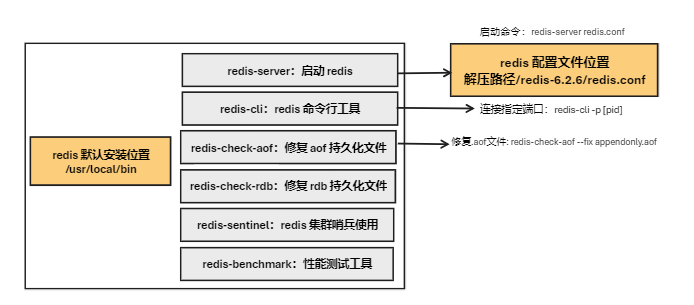
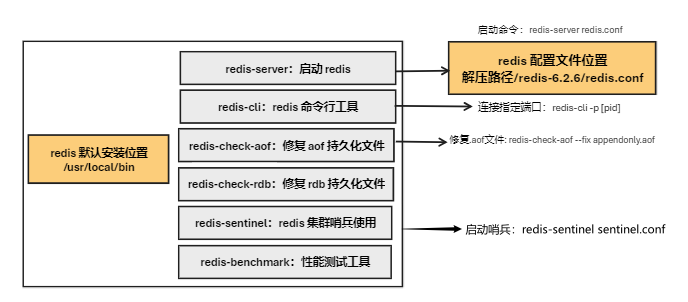
文档更新：扩展Redis哨兵模式和分片集群文档
扩展了Redis文档，详细介绍了哨兵模式和分片集群的配置、选主流程、哨兵集群部署及其运行机制。包括如何设置哨兵监控、主从复制，以及在多种场景下的实例分配与数据操作方法。

Changed region(s): [[0.0305, 0.0894, 0.9767, 0.9536]]

diff --git a/README.md b/README.md
@@ -589,7 +589,7 @@ Redis 根据数据库现有数据，创建一个新的 AOF 文件，读取数据
 > - 但是在服务器宕机到恢复的这段时间，新来的请求如何处理？也就是如何保证服务器少服务少中断，提高服务的可用性；
 > - redis 提高可用性的方式，增加副本（集群方案）；
 
-![image.png](assets/image73.png?t=1726319203051)
+![image.png](assets/image73.png?t=1726468291100)
 
 ## 1. 主从复制
 
@@ -723,6 +723,247 @@ dbfilename dump6379.rdb
 > 缓冲空间大小 = 主库写入速度 * 操作大小 - 主从库网络传输速度 * 操作大小
 >
 > repl-backlog-size = 缓冲空间大小 * 2
+
+## 2. 哨兵模式
+
+> 主从复制模式，解决了从节点宕机后读数据的问题；但是并没有解决主节点宕机无法写数据的问题；（主节点读写，从节点只读）
+
+哨兵模式：当主库宕机，在从库中选择一个，切换为主库。
+
+问题：
+
+> 1. 主库是否真正宕机?
+> 2. 哪一个从库可以作为主库使用?
+> 3. 如何实现将新的主库的信息通知给从库和客户端?
+
+### （1）基本流程
+
+> 哨兵主要任务：
+>
+> - 监控：周期性 ping 主/从节点
+>   - 从库：当前 sentinel 节点指定时间内未收到从库应答，则认为主客观都下线；
+>   - 主库：当前 sentinel 节点指定时间内未收到主库应答，则认为主库主观下线，当大部分 sentinel 节点都主观认为主库下线，则主库变为客观下线；此时需要重新选择主库；
+> - 选择主库
+>   - 筛选：筛掉一些宕机和网络差的节点；
+>   - 打分：三轮打分选择分数最高，优先级、与主库同步程度、id值；
+> - 通知
+
+### （2）哨兵模式配置
+
+1. 新建配置文件：`vim sentinel.conf`，编辑并保存如下内容：
+
+```ini
+# 配置哨兵端口
+port 26379
+# 配置监控的猪节点地址 1 表示只要有一个哨兵主观认为主节点下线，则主节点就客观下线
+# sentinel monitor <自定义的reids主节点名称> <IP> <port> <数量>
+sentinel monitor mymaster 127.0.0.1 6379 1
+# 配置主观认为主节点下线的等待时间，单位 毫秒
+sentinel down-after-milliseconds mymaster 30000
+```
+
+2. 启动三个 redis 实例，配置成一主二从模式；
+
+   ![image.png](assets/image77.png)
+3. 启动哨兵：`redis-sentinel sentinel.conf`
+
+![image.png](assets/image78.png)
+
+4. 将主节点宕机，观察哨兵监控信息变化；
+
+> 将一个从库 6380，切换成主库，将 6381，切换成 6379 的从库；
+
+![image.png](assets/image79.png)
+
+5. 将主节点再次上线，观察哨兵监控信息变化；
+
+> 原来主库 6379 再次启动，6379 切换成 6380 的从库；
+
+![image.png](assets/image80.png)
+
+#### ❤ 主节点切换的实现方式：自动重写 redis 实例配置文件
+
+![image.png](assets/image81.png)
+
+### （3）选主流程 ❤
+
+> 筛选 + 打分机制，来实现新主库的选定
+
+1. 筛选：筛选掉一些宕机的和网络不好的节点，剩下的节点作为备选进行打分；
+2. 打分：三轮打分
+
+- 第一轮：优先级
+  - 通过 replica-priority 配置项，给不同的从库设置优先级，可以将内存大，网络好，配置高的从库优先级设置更高；
+- 第二轮：和原主库同步程度；
+  - 选择和原主库 repl_backlog_buffer （环形缓冲区）中的位置最接近的，做为分数最高；
+- 第三轮：ID 号小的从库得分高，每一个 redis 实例都有一个id；
+
+![image.png](assets/image82.png)
+
+### （4）哨兵集群
+
+> - 采用多个哨兵，组成一个集群，以少数服从多数的原则，来判断主库是否已客观下线：（防止单个哨兵产生较大误判概率）；
+> - 多数一般指 n/2 + 1；（向下取整）
+> - 如果集群中，有哨兵实例掉线，其他的哨兵还可以继续协作，来完成主从库监控和切换的工作；
+
+#### a. 部署
+
+模式：redis 实例一主二从，sentinel 实例三个节点集群；
+
+1. 创建了一个目录 mysentinel；
+2. 分别创建三个哨兵配置文件
+
+> - sentinel26379.conf
+> - sentinel26380.conf
+> - sentinel26381.conf
+
+配置如下：
+
+> `sentinel down-after-milliseconds mymaster 30000`，每个哨兵等待时间要配置一致，否则达不成一致选库切换；:star:
+
+```ini
+port 26381
+sentinel monitor mymaster 127.0.0.1 6379 2
+```
+
+```ini
+port 26380
+sentinel monitor mymaster 127.0.0.1 6379 2
+```
+
+```ini
+port 26379
+sentinel monitor mymaster 127.0.0.1 6379 2
+```
+
+3. 再次配置一主二从 reedis 实例；
+4. 启动三个 redis 实例，配置成一主二从，6379是主库；
+5. 依次启动三个哨兵实例，主库宕机，发现主库下线后，选举新的从库做为主库；
+
+![image.png](assets/image83.png)
+
+#### b. 运行机制
+
+> - 基于 pub/sub，即 发布/订阅 机制实现哨兵集群组成；
+> - 基于 info 命令实现哨兵监控从库；
+> - 基于自身的 pub/sub，实现哨兵与客户端之间的通知（主库切换）；
+
+##### 发布 / 订阅 ❤
+
+- 订阅：`subscrie channel [channel1...]`
+- 发布：`publis channel <message>`
+
+> 订阅一个或多个频道，一旦频道上有消息发布，订阅了这个频道的用户都可以收到信息；
+>
+> ![image.png](assets/image84.png)
+
+![image.png](assets/image85.png)
+
+结构图：
+
+![image.png](assets/image.88png)
+
+## 3. 分片集群
+
+> 业务场景，需要存储 50G 的数据，但是内存和硬盘配置不足时，选用两种方式解决：
+>
+> - 纵向扩展：加内存，加硬盘，提高CPU；
+>   - 简单、直接；RDB存储效率要考虑，成本要考虑
+> - 横向扩展：加实例；:star:
+
+### （1）分片集群配置
+
+配置成一主一从的三个分片：
+
+![image.png](assets/image90.png)
+
+1. 创建文件夹`mkdir mycluster`，在 /mycluster 目录下配置 6 个配置文件；
+2. 从 /redis-6.2.6 目录下，将默认配置文件 redis.conf 复制到 /mycluster 目录下，并打开后台启动 `daemonize yes`；
+3. 配置 6 个配置文件：
+
+> redis6379.conf / redis6380.conf / redis6479.conf / redis6480.conf / redis6579.conf / redis6580.conf
+
+![image.png](assets/image92.png)
+
+> vim编辑器下，替换内容命令：`:%s/原内容/替换内容`
+>
+> ```ini
+> :%s/6379/6380
+> ```
+
+```ini
+include redis-base.conf
+pidfile "/var/run/redis_6379.pid"
+port 6379
+dbfilename "dump6379.rdb"
+# 打开集群配置 
+cluster-enabled yes
+# 设定节点配置文件
+cluster-config-file nodes-6379.conf
+# 设置节点失联时间
+cluster-node-timeout 15000
+```
+
+4. 修改 redis-base.conf 配置文件，将 bind ip 地址加入（加入本机IP地址），172.20.255.51
+
+> 这里不适用本地环回地址 127.0.0.1 是因为，本地环回地址的数据包不会离开本机，因此不能在网络中的其他节点间传递。本地环回地址的设计目的是为了本地测试和调试，而不是为了支持分布式系统或集群环境下的节点间通信。因此，在配置集群时，应该使用实际的网络接口地址，确保各个节点能够互相识别并建立有效的通信链路。:star:
+
+![image.png](assets/image89.png)
+
+5. 启动这 6 个 redis 实例，并保证启动成功；
+
+![image.png](assets/image91.png)
+
+6. 将 6 个 redis 实例合成一个集群；
+
+```bash
+redis-cli --cluster create <node1-ip>:<node1-port> <node2-ip>:<node2-port> ... <nodeN-ip>:<nodeN-port> --cluster-replicas <replicas-count>
+```
+
+```bash
+   redis-cli --cluster create \
+     172.20.255.51:6379 \
+     172.20.255.51:6380 \
+     172.20.255.51:6479 \
+     172.20.255.51:6480 \
+     172.20.255.51:6579 \
+     172.20.255.51:6580 \
+     --cluster-replicas 1
+```
+
+> 其中 `--cluster-replicas 1` 表示每个主节点拥有一个从节点
+
+![image.png](assets/image93.png)
+
+### （2）Hash Slot 哈希槽
+
+在使用 redis cluster 方案中，一个分片集群有 16384 个哈希槽，哈希槽表示数据分区；
+
+```bash
+Master[0] -> Slots 0 - 5460
+Master[1] -> Slots 5461 - 10922
+Master[2] -> Slots 10923 - 16383
+```
+
+> - 划分方法：16384 / n；其中 n 是有 n 个分片；
+> - 数据存在哪个分片上是通过键值对的 key 按照 CRC16 算法计算一个 16bit 的值；
+> - 再用这个值对 16384 取模运算，得到的数代表对应编号的 hash slot；
+> - hash16 % 16384 [0-16383]，落在上述哪个区间，就在哪个分片；
+
+❤【hash slot 分配方案】：
+
+- cluster create 命令创建集群时，redis 会自动把这些 hash slot 平均分布在集群实例上。如果集群中有 N 个实例(主库)，每个实例上分配到的 hash slot 就是 16384/N；
+- 使用 cluster addslos 手工分配哈希槽；
+
+### （3）数据操作
+
+
+
+
+
+
+
+
 
 
 
